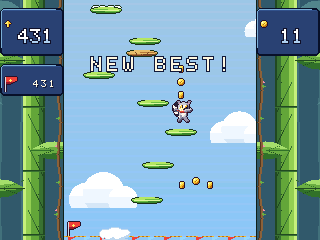
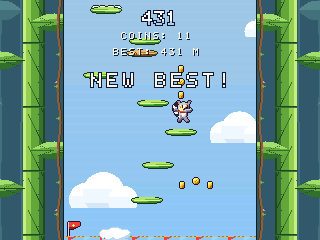
Lemur Leap: the house HUD, as the other games (the owner's note)
No more boxes on the panels or band across the top: the height in the kit's big digits centred at the top, COINS
on row 4 and BEST on row 6 under it (a power-up running: its icon and bar there instead), small cream text over the
scene, as Hedgehog Hills and Beaver Rush; the same placement in landscape (centred on the column) and upright
(pinned at the screen's top). The zone's and the record's banners on row 9. make lemurleap-check passes.

diff --git a/games/lemurleap/src/draw.c b/games/lemurleap/src/draw.c
@@ -24,7 +24,7 @@
 #include <string.h>
 
 #define COL_X        64             /* the column's left edge, stage x */
-#define HUD_ROWS     5              /* a tall screen: BG1's rows 0..4 pinned at its top (the HUD) */
+#define HUD_ROWS     7              /* BG1's rows 0..6: the HUD (a tall screen: pinned at its top) */
 #define PARTS        40
 #define OAM_BUDGET   124
 #define LINE_BUDGET  30
@@ -502,74 +502,32 @@ static int power_left(const hero *h, int *kind)
 }
 static int item_spr(int k) { return k == IT_PROP ? SPR_PROP : k == IT_ROCKET ? SPR_ROCKET : k == IT_SHIELD ? SPR_SHIELD : SPR_MAGNET; }
 
-/* landscape: the side panels (UI columns 0..7 and 32..39): the height and the record at the left, the coins and the
- * power-up at the right, icons and digits only (no words: every language fits) */
-static void hud_side_bg(void)
+/* The house HUD (as Hedgehog Hills, Beaver Rush...): the height in the kit's big digits centred at the top (y 10),
+ * the coins on row 4 and the record on row 6 under it, small cream text over the scene; a power-up running: its icon
+ * and its bar on row 6 instead of the record. The same in landscape (centred on the column) and upright (pinned at the
+ * screen's top, centred in the columns shown). */
+static int hud_mid_x(int narrow) { return narrow ? ht_mid_x() : 160; }
+static void hud_text(const world *w, const view *v, int narrow)
 {
-    hu_panel(0, 1, 8, 6);
-    hu_panel(0, 8, 8, 4);
-    hu_panel(32, 1, 8, 6);
-}
-static void hud_side_text(const world *w, const view *v)
-{
-    char s[16];
-    snprintf(s, sizeof s, "%d", v->best_m > world_height_m(w) ? v->best_m : world_height_m(w));
-    hu_clear_rows(10, 1);
-    hu_panel(0, 8, 8, 4);
-    hu_box_text(7 - hu_width(s, 0), 10, s);
-    int k, left = power_left(&w->h, &k);
+    char s[64];
+    hu_clear_rows(0, HUD_ROWS);
+    rs_strf(s, sizeof s, TR(COINS_N), w->coins);
+    hu_text(narrow ? ht_center(s, 0) : hu_center(s, 0), 4, s);
+    int k, left = power_left(&w->h, &k), mid = hud_mid_x(narrow) / 8;
     if (k) {
-        hu_panel(32, 8, 8, 4);
-        hud_bar(10, 35, 3, left, 256);
-    } else {
-        for (int r = 8; r < 12; r++)
-            for (int c = 32; c < 40; c++) rs_bg_put(RS_BG1, c, r, RS_MAP(0, PAL_UI, 0, 0, 0));
+        hud_bar(6, mid - 2, 5, left, 256);
+    } else if (v->best_m > 0) {
+        rs_strf(s, sizeof s, TR(BEST_M), v->best_m > world_height_m(w) ? v->best_m : world_height_m(w));
+        hu_text(narrow ? ht_center(s, 0) : hu_center(s, 0), 6, s);
     }
 }
-static void hud_side_sprites(const world *w, const view *v)
+static void hud_sprites(const world *w, int narrow)
 {
-    int ux = hu_ui_x();
-    spr(SPR_HUD_UP, ux + 4, 2 * 8 + 4, 3, 0);
-    hu_number(world_height_m(w), 32 + 4, 4 * 8 - 4, 3);
-    spr(SPR_FLAG, ux + 3, 9 * 8 + 4, 3, 0);
-    spr(SPR_HUD_COIN, ux + 33 * 8 - 4, 2 * 8 + 4, 3, 0);
-    hu_number(w->coins, 36 * 8 + 4, 4 * 8 - 4, 3);
-    budget_kit(4 * 8 - 4, 16, 8);
+    int dy = narrow ? rs_screen_top() : 0, mid = hud_mid_x(narrow);
+    hu_number(world_height_m(w), mid, 10 + dy, 3);
+    budget_kit(10 + dy, 16, 5);
     int k;
-    if (power_left(&w->h, &k) && k) spr(item_spr(k), ux + 32 * 8 + 6, 9 * 8 + 4, 3, 0);
-    (void)v;
-}
-
-/* upright: pinned at the screen's top: the height big in the middle, the coins and the record at the sides (clear of
- * the app's corner buttons), the power-up's bar under the height */
-static void hud_top_text(const world *w, const view *v)
-{
-    char s[16];
-    int c0, c1;
-    ht_cols(&c0, &c1);
-    hu_clear_rows(0, HUD_ROWS);
-    hu_panel(c0 - 1, 0, c1 - c0 + 2, HUD_ROWS);                      /* a band behind the HUD, over the climb ahead */
-    snprintf(s, sizeof s, "%d", w->coins);
-    hu_box_text(c0 + 2, 3, s);
-    snprintf(s, sizeof s, "%d", v->best_m > world_height_m(w) ? v->best_m : world_height_m(w));
-    hu_box_text(c1 - 1 - hu_width(s, 0), 3, s);
-    int k, left = power_left(&w->h, &k);
-    if (k) hud_bar(4, (c0 + c1) / 2 - 2, 4, left, 256);
-}
-static void hud_top_sprites(const world *w, int narrow)
-{
-    int c0, c1, top = rs_screen_top();
-    ht_cols(&c0, &c1);
-    int ux = hu_ui_x();
-    hu_number(world_height_m(w), ht_mid_x(), top + 6, 3);
-    budget_kit(top + 6, 16, 5);
-    spr(SPR_HUD_COIN, ux + c0 * 8 + 4, top + 3 * 8, 3, 0);
-    char s[16];
-    snprintf(s, sizeof s, "%d", w->best_m > world_height_m(w) ? w->best_m : world_height_m(w));
-    spr(SPR_FLAG, ux + (c1 - 3 - hu_width(s, 0)) * 8 + 2, top + 3 * 8 - 6, 3, 0);
-    int k;
-    if (power_left(&w->h, &k) && k) spr(item_spr(k), ux + ((c0 + c1) / 2 - 5) * 8, top + 4 * 8 - 4, 3, 0);
-    (void)narrow;
+    if (power_left(&w->h, &k) && k) spr(item_spr(k), hu_ui_x() + (mid / 8 - 5) * 8, 6 * 8 - 4 + dy, 3, 0);
 }
 
 /* ---- the panels ------------------------------------------------------------------------------------------------------- */
@@ -726,17 +684,16 @@ void draw_frame(const world *w, const view *v)
         } else if (over) {
             results_panel(w, v, narrow);
         } else {
-            if (narrow) hud_top_text(w, v);
-            else { hud_side_bg(); hud_side_text(w, v); }
+            hud_text(w, v, narrow);
             if (banner_t) {
                 static const int zk[ZONES] = {GS_ZONE_GARDEN, GS_ZONE_CLOUDS, GS_ZONE_SKY, GS_ZONE_SPACE};
                 const char *s = banner_kind == 10 ? HTR(NEW_BEST_EXCL) : rs_tr(&gs_strings, zk[banner_kind & 3]);
                 if (narrow) ht_big(9, s, HU_BIG_FREE);
-                else hu_big(hu_center(s, 1), 7, s, HU_BIG_FREE);
+                else hu_big(hu_center(s, 1), 9, s, HU_BIG_FREE);
             }
             if (v->first_run && w->t < 6 * SEC && !v->paused && !banner_t) {
                 const char *a = v->touch ? TR(HINT_TOUCH) : TR(HINT_PAD), *b = v->touch ? TR(HINT_TOUCH2) : TR(HINT_SHOOT);
-                if (narrow) { int r = ht_text_gap(7, a, 0, 1); ht_text_gap(r + 2 + hu_tall(b), b, 0, 1); }
+                if (narrow) { int r = ht_text_gap(9, a, 0, 1); ht_text_gap(r + 2 + hu_tall(b), b, 0, 1); }
                 else { hu_text(hu_center(a, 0), 18, a); hu_text(hu_center(b, 0), 20, b); }
             }
             if (v->paused) {
@@ -836,8 +793,7 @@ void draw_frame(const world *w, const view *v)
         return;
     }
     /* the HUD's sprites */
-    if (narrow) hud_top_sprites(w, narrow);
-    else hud_side_sprites(w, v);
+    hud_sprites(w, narrow);
     draw_parts(cam);
     draw_hero(w, cam, v->hat);
     draw_world_bits(w, cam);

diff --git a/games/lemurleap/DESIGN.md b/games/lemurleap/DESIGN.md
@@ -78,16 +78,16 @@ a moving one, shoots the pests above) climbs 1500 m on every seed with the pests
 | BG3 | stars, a ringed planet, a moon: from 650 m, fading in | 1/8 |
 | sprites | prio 2: the leaves, the ground, coins, power-ups, pests, seeds, the lemur and its hat, the effects | |
 | BG2 | the side panels: the giant beanstalk's stalks, their leaves, a vine on the column's edge; high priority: they hide what passes outside the column (the lemur crossing the wrap shows on both sides, cut at the edges); their background takes the zone's colours | 1/2 |
-| BG1 | the house kit: the HUD in boxes on the panels (the height, the record, the coins, the power-up's bar: icons and digits only), the title, the results, PAUSED | |
+| BG1 | the house kit: the HUD as in the other house games (the height in big digits centred at the top, COINS on row 4 and BEST on row 6 under it, or the power-up's icon and bar; small cream text over the scene, the same placement in landscape and upright), the title, the results, PAUSED | |
 
 **Widescreen**: wider panels (more beanstalk). **Tall screen** (a phone held upright, the owner's note: the column
 fills the whole width): the zoom (`rs_screen_zoom`, main.c `portrait_zoom`) is chosen from the display's shape so that
 the columns shown are exactly the 192 of the column: 416 lines on 1080x2340, 448 on 1080x2520, 384 on 720x1440, 341
 on 1080x1920. No side panels upright (BG2 off): the lemur leaving one edge comes in at the other, seamlessly. The climb
 is the same at every size (only the zoom changes). The stage sits at the screen's bottom, so the lines above it show
-the climb ahead; the HUD is pinned at the top on a band (the height big in the middle, the coins and the record at the
-sides). The title and the results use house_tall.h's layouts, pinned on the screen; the lemur hops on the garden's
-ground at the bottom of the title. The touch halves are the screen's (the column's) halves.
+the climb ahead; the HUD is pinned at the screen's top (the house's HUD, the same as in landscape). The title and the
+results use house_tall.h's layouts, pinned on the screen; the lemur hops on the garden's ground at the bottom of the
+title. The touch halves are the screen's (the column's) halves.
 
 ## Screens
 title (the logo, the lemur hopping on a leaf wearing the look shown, the wardrobe's line, its price or WORN, the
